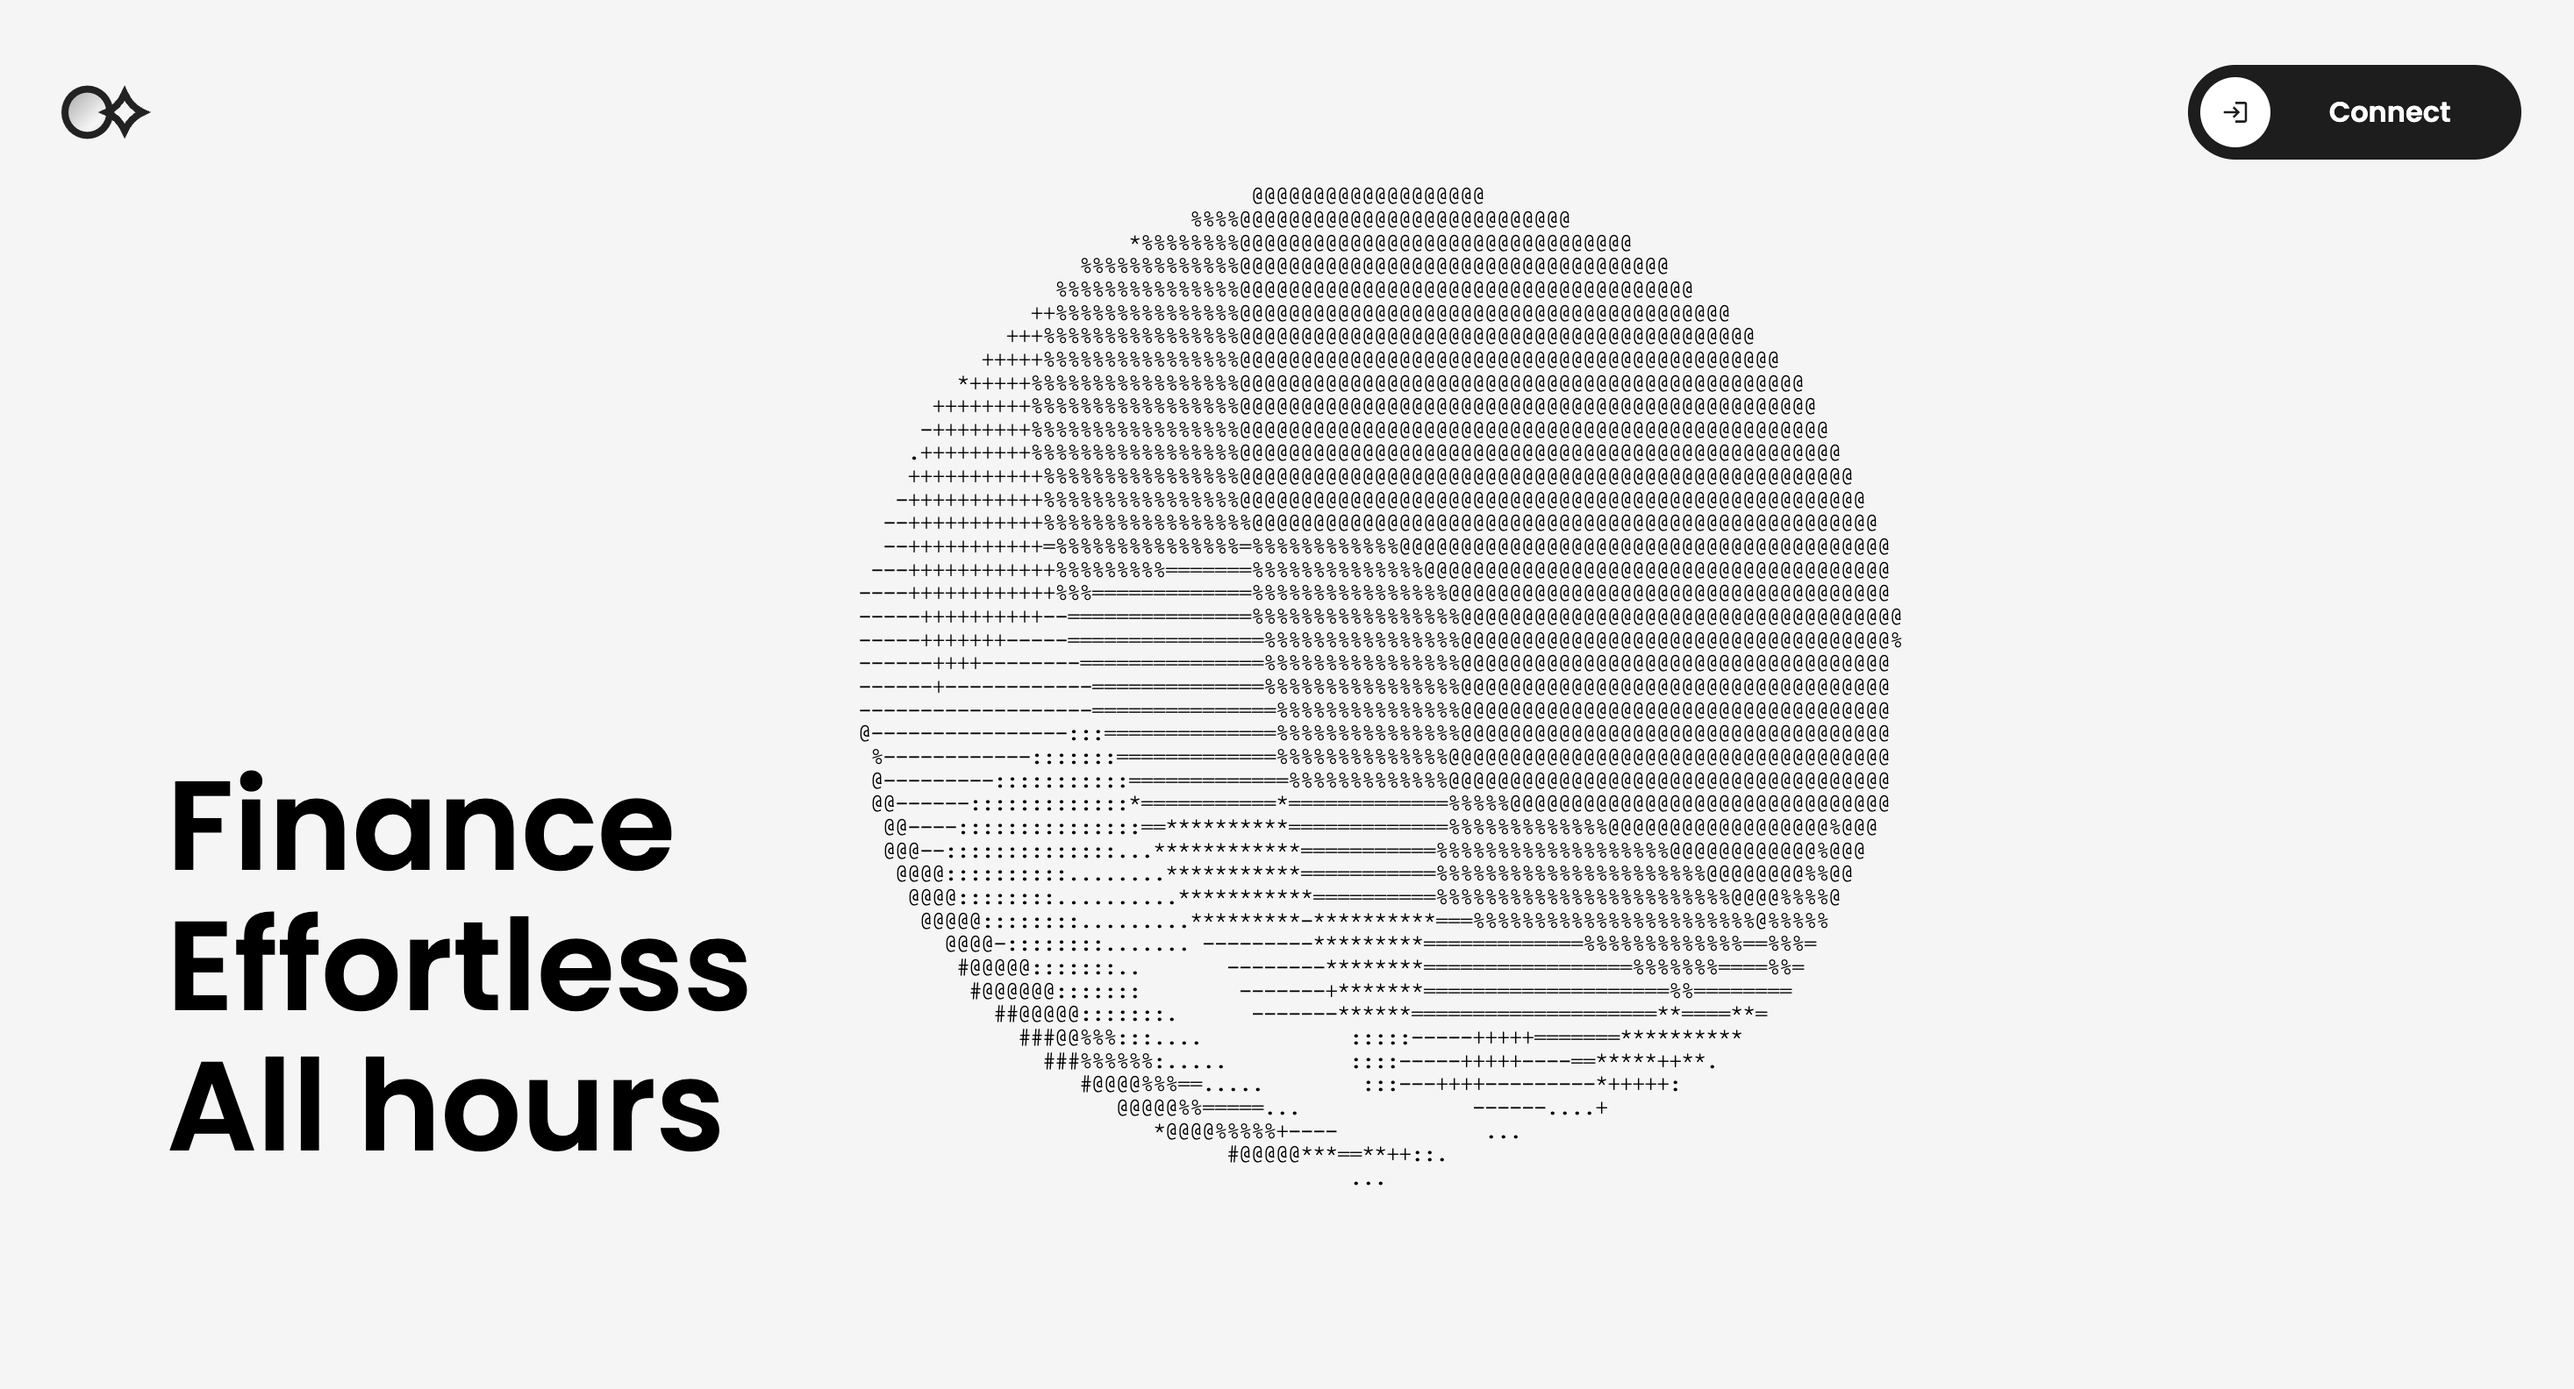
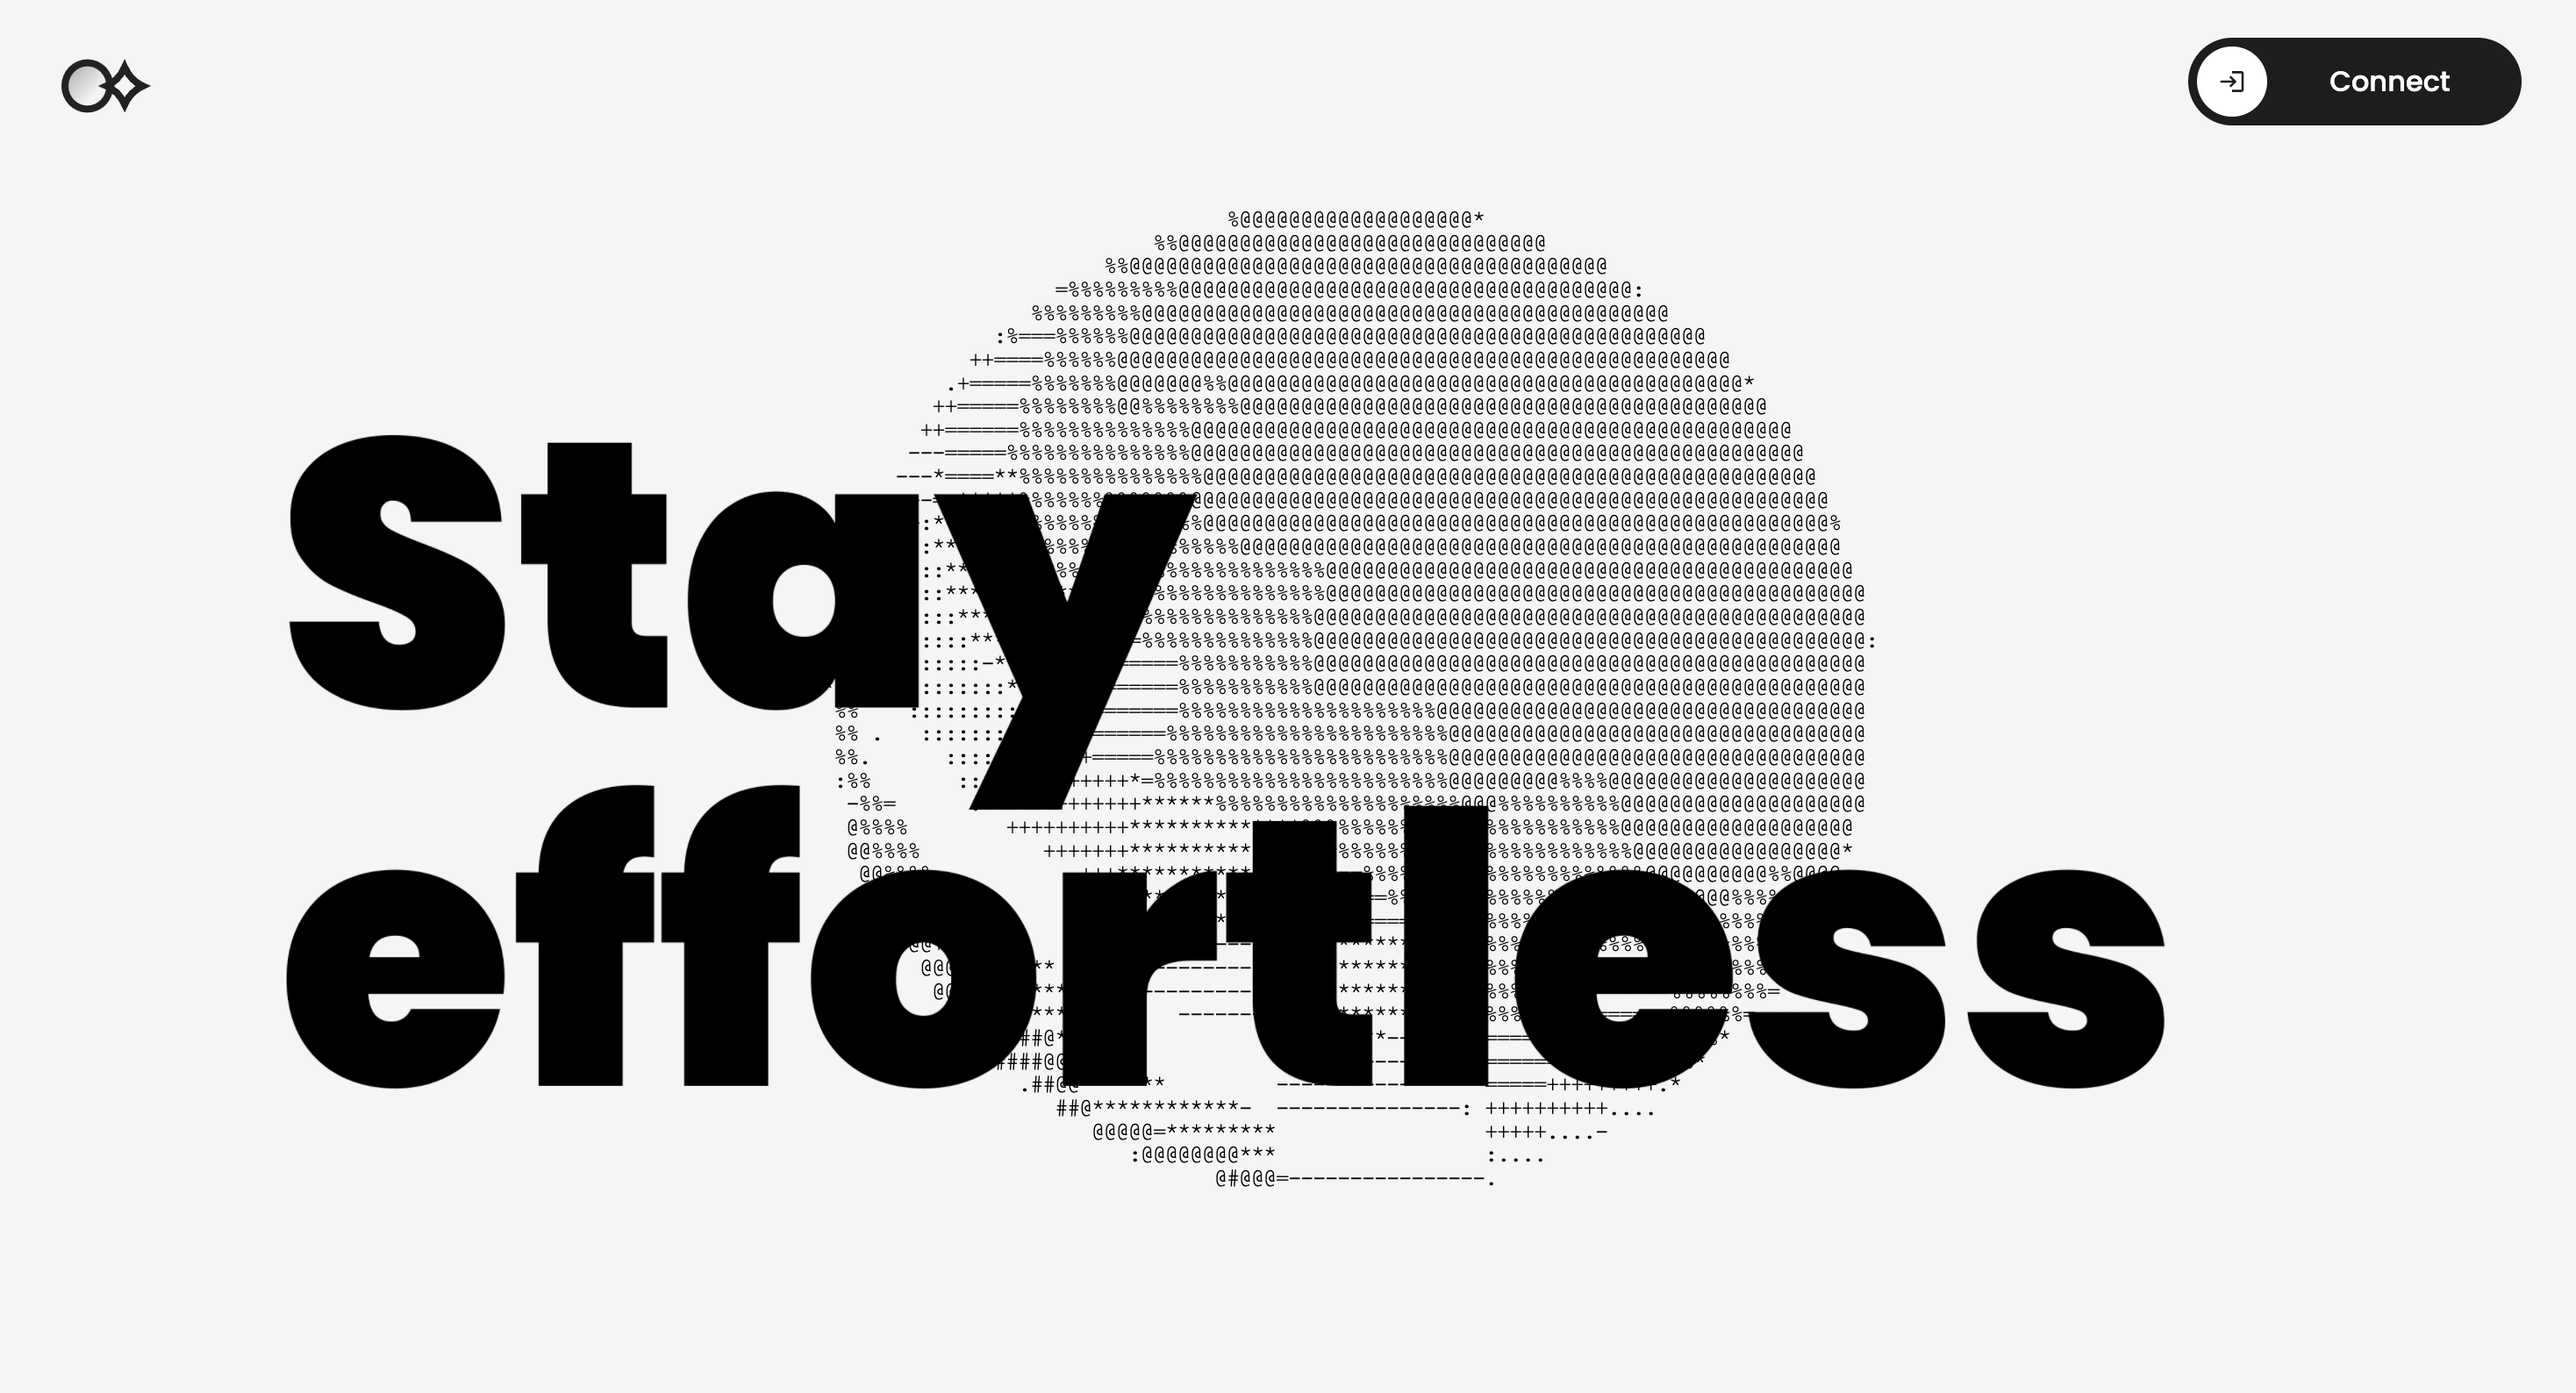
feat: add Displacing images canvas

Changed region(s): [[0.062, 0.1237, 0.8374, 0.8662], [0.8374, 0.0, 0.9925, 0.1237], [0.0, 0.0309, 0.062, 0.0928]]

diff --git a/components/DisplacementCanvas/index.tsx b/components/DisplacementCanvas/index.tsx
@@ -1,0 +1,152 @@
+'use client';
+
+import type { StaticImageData } from 'next/image';
+import { CSSProperties, useEffect, useMemo, useRef, useState } from 'react';
+import { useTexture } from '@react-three/drei';
+import { Canvas, useFrame, MeshProps, useThree } from '@react-three/fiber';
+import { type ShaderMaterial } from 'three';
+import { MathUtils } from 'three/src/math/MathUtils';
+
+export type CustomGLSLProps = {
+  vertexShader?: string;
+  fragmentShader?: string;
+};
+
+export const WAIVY_CUSTOM_GLSL_MAP: CustomGLSLProps = {
+  vertexShader: `
+    varying vec2 vUv;
+
+    void main() {
+        vUv = uv;
+        gl_Position = projectionMatrix * modelViewMatrix * vec4( position, 1.0 );
+    }
+  `,
+  fragmentShader: `
+    #ifdef GL_ES
+    precision highp float;
+    #endif
+    // precision highp float;
+
+    varying vec2 vUv;
+
+    uniform sampler2D tex;
+    uniform sampler2D tex2;
+    uniform sampler2D disp;
+
+    uniform float _rot;
+    uniform float dispFactor;
+    uniform float effectFactor;
+
+    void main() {
+        vec2 uv = vUv;
+        vec4 disp = texture2D(disp, uv);
+        vec2 distortedPosition = vec2(uv.x + dispFactor * (disp.r*effectFactor), uv.y);
+        vec2 distortedPosition2 = vec2(uv.x - (1.0 - dispFactor) * (disp.r*effectFactor), uv.y);
+        vec4 _texture = texture2D(tex, distortedPosition);
+        vec4 _texture2 = texture2D(tex2, distortedPosition2);
+        vec4 finalTexture = mix(_texture, _texture2, dispFactor);
+
+        gl_FragColor = finalTexture;
+
+        #include <tonemapping_fragment>
+        #include <encodings_fragment>
+    }
+  `,
+};
+
+export type CanvasDimension = {
+  width: number;
+  height: number;
+  aspect: number;
+};
+
+export type DisplacementMeshProps = {
+  textureImage1: StaticImageData;
+  textureImage2: StaticImageData;
+  displacementImage: StaticImageData;
+};
+
+const DisplacementMesh = ({ textureImage1, textureImage2, displacementImage }: DisplacementMeshProps) => {
+  const ref = useRef<ShaderMaterial>(null);
+
+  useFrame(() => {
+    if (ref.current)
+      ref.current.uniforms.dispFactor.value = MathUtils.lerp(ref.current.uniforms.dispFactor.value, isHovered ? 1 : 0, 0.075);
+  });
+
+  const [isHovered, setIsHovered] = useState(false);
+
+  const [texture1, texture2, dispTexture] = useTexture([textureImage1.src, textureImage2.src, displacementImage.src]);
+
+  const args = useMemo(
+    () => ({
+      uniforms: {
+        effectFactor: { value: 1.2 },
+        dispFactor: { value: 0 },
+        tex: { value: texture1 },
+        tex2: { value: texture2 },
+        disp: { value: dispTexture },
+      },
+      ...WAIVY_CUSTOM_GLSL_MAP,
+      toneMapped: false,
+    }),
+    [texture1, texture2, dispTexture]
+  );
+
+  const { size, viewport } = useThree();
+
+  const meshDimension = useMemo<MeshProps['scale']>(() => {
+    const width = size.width / viewport.factor;
+    const height = size.height / viewport.factor;
+    return [width, height, 1];
+  }, [size.width, size.height, viewport.factor, viewport.aspect]);
+
+  return (
+    <mesh scale={meshDimension} onPointerOver={() => setIsHovered(true)} onPointerOut={() => setIsHovered(false)}>
+      <planeGeometry attach="geometry" args={[1, 1]} />
+      <shaderMaterial ref={ref} attach="material" args={[args]} />
+    </mesh>
+  );
+};
+
+const DisplacementCanvas = ({
+  className = '',
+  style,
+  ...meshProps
+}: DisplacementMeshProps & { className?: string; style?: CSSProperties }) => {
+  const ref = useRef<HTMLDivElement>(null);
+
+  const [dimension, setDimension] = useState<CanvasDimension>();
+
+  useEffect(() => {
+    if (!ref.current) return;
+
+    const aspect = meshProps.textureImage1.width / meshProps.textureImage1.height;
+    const width = ref.current.clientWidth;
+    const height = width / aspect;
+    setDimension({ width, height, aspect });
+  }, [meshProps.textureImage1]);
+
+  const visibilityClassName = !!dimension ? 'opacity-100 translate-y-0' : 'opacity-0 translate-y-2';
+
+  console.log('dimension', dimension);
+
+  return (
+    <div
+      ref={ref}
+      className={`Component transition-all duration-1000 ${visibilityClassName} ${className}`}
+      style={{
+        height: `${dimension?.height}px`,
+        ...style,
+      }}
+    >
+      {dimension && (
+        <Canvas camera={{ position: [0, 0, 2], fov: 47, aspect: dimension.aspect }} className="animate-fade_in">
+          <DisplacementMesh {...meshProps} />
+        </Canvas>
+      )}
+    </div>
+  );
+};
+
+export default DisplacementCanvas;

diff --git a/pages/index.tsx b/pages/index.tsx
@@ -2,13 +2,16 @@ import type { NextPage } from 'next';
 import dynamic from 'next/dynamic';
 import { useAtom } from 'jotai';
 import Main from '@/components/Main';
-import AppHeadline from '@/components/AppHeadline';
 import { userWalletAtom } from '@/store/states';
 import { useCallback, useMemo, useState } from 'react';
 import GainersLosersTables from '@/components/tables/GainersLosersTables';
 import BalanceTokensTable from '@/components/tables/BalanceTokensTable';
 import ExchangesTable from '@/components/tables/ExchangesTable';
-import MosaiqedCanvas from '@/components/MosaiqedCanvas';
+import DisplacementCanvas from '@/components/DisplacementCanvas';
+import StayEffortlessImg from '@/resources/images/tg_stay_effortless.png';
+import StillEarningImg from '@/resources/images/tg_still_achieving.png';
+// import DisplacementImg from '@/resources/textures/texture_noise.jpg';
+import DisplacementImg from '@/resources/textures/texture_blocks.jpg';
 
 const AsciiGlobe = dynamic(() => import('@/components/AsciiGlobe'), {
   ssr: false,
@@ -22,7 +25,7 @@ const Home: NextPage = () => {
 
   const appHeadlineTransformClassName = useMemo<string>(
     () =>
-      !!userWallet && isAppHeadlineAnimationEnd ? '-translate-x-[calc(100%_+_2rem)] md:-translate-x-[calc(100%_+_7rem)]' : '',
+      !!userWallet && isAppHeadlineAnimationEnd ? '-translate-x-[calc(100%_+_2rem)] md:-translate-x-[calc(100%_+_10rem)]' : '',
     [userWallet, isAppHeadlineAnimationEnd]
   );
 
@@ -34,13 +37,14 @@ const Home: NextPage = () => {
       <AsciiGlobe className="fixed inset-0" />
 
       <Main className="min-h-screen pt-app_header_height pb-page_bottom">
-        <section className="relative h-screen">
-          <MosaiqedCanvas />
-
-          <AppHeadline
-            className={`absolute left-8 bottom-page_padding_safe_bottom md:left-24 md:bottom-48 transition-transform Transition_1000 ${appHeadlineTransformClassName}`}
-            onAnimationEnd={onAppHeadlineAnimationEnd}
+        <section className="relative w-full h-screen_exept_app_header flex items-center justify-center px-page_x_mobile md:px-page_x md:mb-page_bottom">
+          <DisplacementCanvas
+            className="w-full overflow-hidden"
+            textureImage1={StayEffortlessImg}
+            textureImage2={StillEarningImg}
+            displacementImage={DisplacementImg}
           />
+          {/* <MosaiqedCanvas className="w-screen h-screen" /> */}
         </section>
 
         {userWallet && (

diff --git a/tailwind.config.js b/tailwind.config.js
@@ -13,6 +13,7 @@ module.exports = {
         button: '9999px',
         icon: '9999px',
         tag: '9999px',
+        card_lg: '5rem',
         card_md: '1rem',
         card_sm: '0.5rem',
         row: '0.375rem',
@@ -21,12 +22,13 @@ module.exports = {
         safe_top: 'env(safe-area-inset-top, 44px)',
         safe_bottom: '36px',
         app_header_height: 'var(--size-app-header-height)',
+        screen_exept_app_header: 'calc(100vh - var(--size-app-header-height))',
         app_header_padding_x: '2rem',
         app_header_padding_y: '2.75rem',
         bottom_sheet_max_height: 'calc(100vh - var(--size-app-header-height) - 2.25rem)',
         page_bottom: '6rem',
         page_top: 'calc(var(--size-app-header-height) + 2.25rem)',
-        page_x: '6rem',
+        page_x: '10rem',
         page_x_mobile: '2rem',
         page_padding_safe_bottom: 'calc(6rem + 36px)',
         page_gap: '2.25rem',
